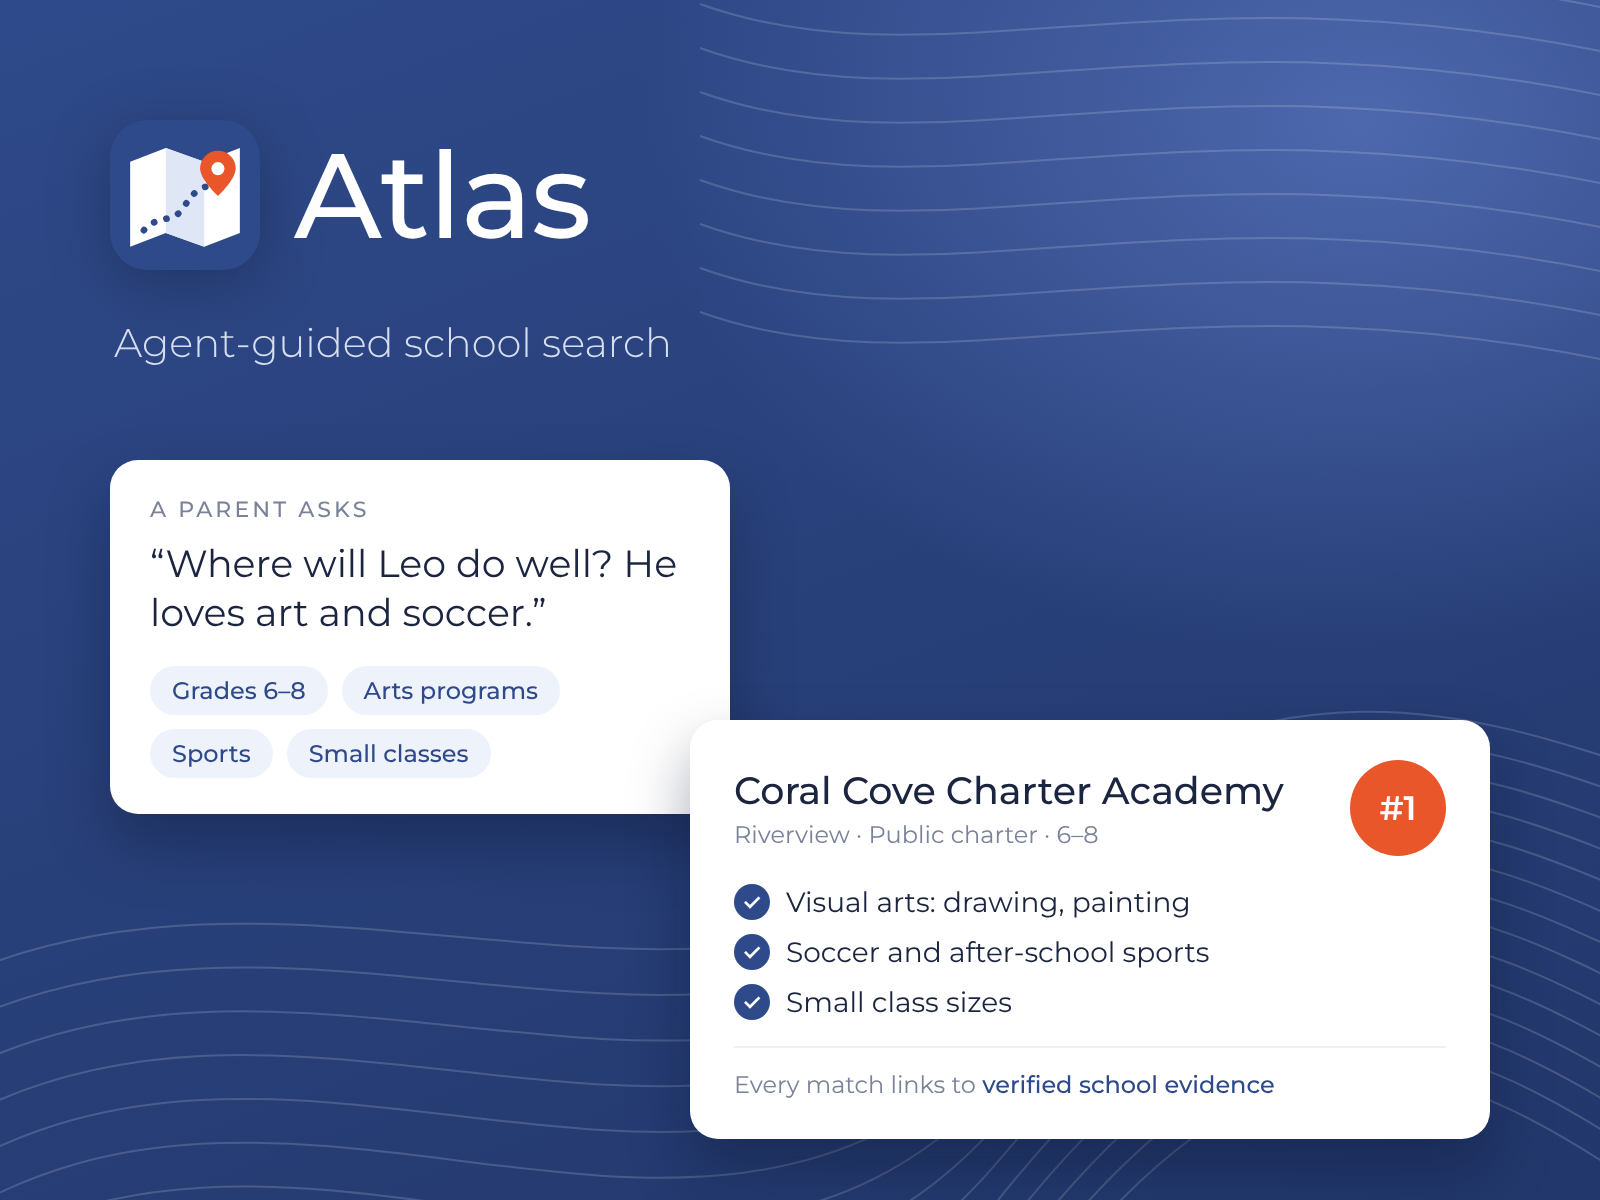
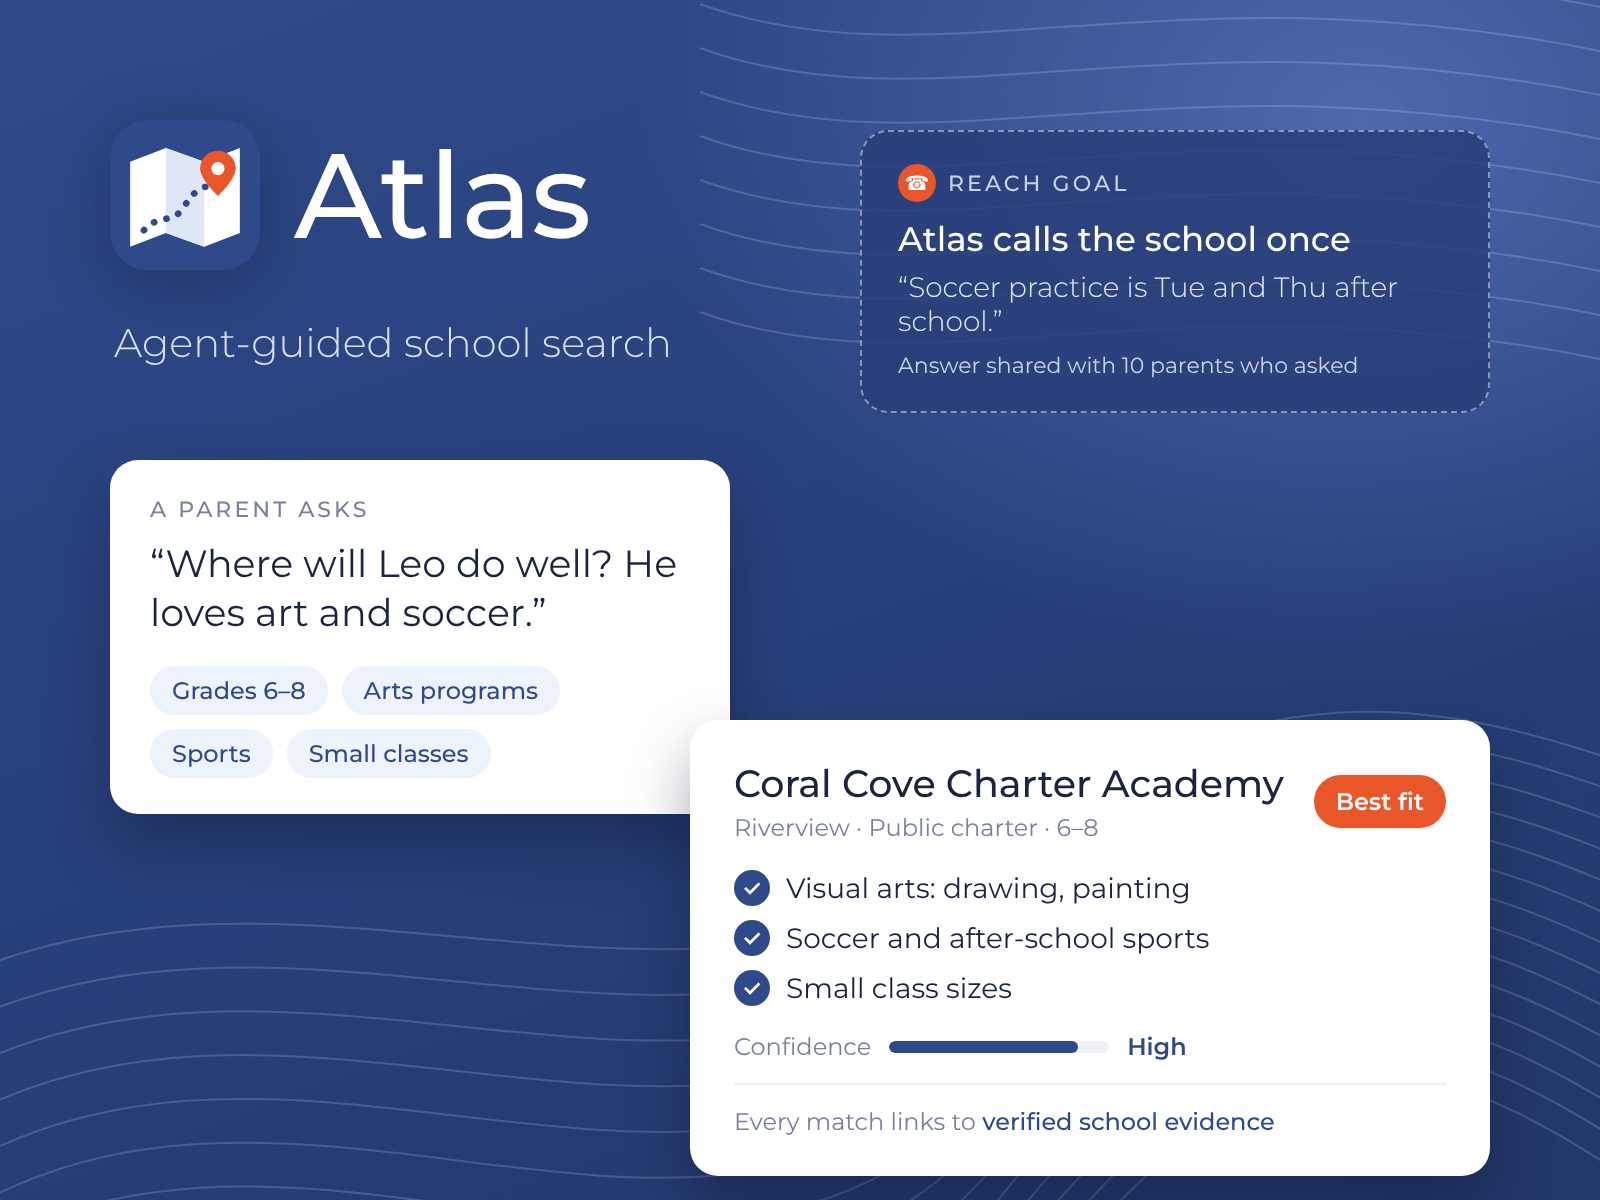
Atlas: show best fit with confidence instead of ranking; add school-call reach goal
Claude-Session: https://claude.ai/code/session_013GG59EGgizmZfqFQYQkgS4

Changed region(s): [[0.4062, 0.6167, 0.9375, 0.9867], [0.5625, 0.0925, 0.9375, 0.3392]]

diff --git a/src/content/projects/aws-hackathon-greatschools.md b/src/content/projects/aws-hackathon-greatschools.md
@@ -1,8 +1,8 @@
 ---
 title: "Atlas: agent-guided school search"
-summary: "A GreatSchools x AWS hackathon prototype that turns a parent's own words into a ranked, evidence-checked list of schools they can trust."
+summary: "A GreatSchools x AWS hackathon prototype that turns a parent's own words into best-fit school recommendations, each with a confidence level and evidence they can check."
 cover: ../../assets/atlas-cover.png
-coverAlt: "Atlas logo, a folded map with a route to a location pin, beside a parent's question and a top-ranked school card showing which priorities matched"
+coverAlt: "Atlas logo, a folded map with a route to a location pin, beside a parent's question, a best-fit school card with matched priorities and a high confidence level, and a reach-goal card where Atlas calls the school once on behalf of many parents"
 role: "Product Manager"
 year: "2026"
 tags: ["AI Agents", "Amazon Bedrock", "EdTech"]
@@ -39,20 +39,20 @@ Atlas lets parents ask in their own words.
 - **Shows its work.** Each school card says which priorities matched, using the school's own data.
 - **Guides the next step.** A school-guide chat explains why a school fits, suggests questions for a visit, and lets parents compare and save schools to a list.
 
-![Atlas guided search: priority chips, an AI school guide, and a ranked school card showing which priorities matched](../../assets/greatschools-guided-search.jpg)
+![Atlas guided search: priority chips, an AI school guide, and a school card showing which priorities matched](../../assets/greatschools-guided-search.jpg)
 
 ### How it works
 
 1. **Ask.** Different starting points for new and experienced parents.
 2. **Understand.** Amazon Nova Pro on Bedrock extracts the parent's needs.
 3. **Find and check.** OpenSearch retrieves schools and programs, and Rails checks each priority against the data.
-4. **Guide.** Ranked cards, a map, the school-guide chat, save and compare.
+4. **Guide.** Best-fit cards with a confidence level, a map, the school-guide chat, save and compare.
 
 ## Built on AWS
 
 Everything runs in us-east-1. A parent's request passes through AWS WAF and CloudFront to an internal load balancer, then to a Rails app on EC2 that talks to **OpenSearch 2.19** (schools and programs), **RDS MySQL** (search sessions) and **Amazon Bedrock** (Nova Pro).
 
-**How a search is ranked:** 50% keyword match and 50% meaning match. Each priority is then checked in Ruby code against the school's record, so **the AI explains the results but never invents the facts.**
+**How schools are matched:** 50% keyword match and 50% meaning match. Each priority is then checked in Ruby code against the school's record, so **the AI explains the results but never invents the facts.**
 
 | Design goal | How we met it |
 | --- | --- |
@@ -79,7 +79,8 @@ We ran 20 parent-style queries against the live app. 16 had valid matches in the
 
 - **Now:** guided search, evidence checks, save and compare.
 - **Next:** GreatSchools' full school data and reviews, side-by-side compare, and plain-language school terms.
-- **Later:** saved searches that tell parents when a new matching program opens. [Voice call feature: coming soon.]
+- **Later:** saved searches that tell parents when a new matching program opens.
+- **Reach goal:** an agent that calls a school to check a detail, like when soccer practice is, then shares the answer with every parent who asks. Ten parents don't have to make the same call.
 
 ## What I learned
 
